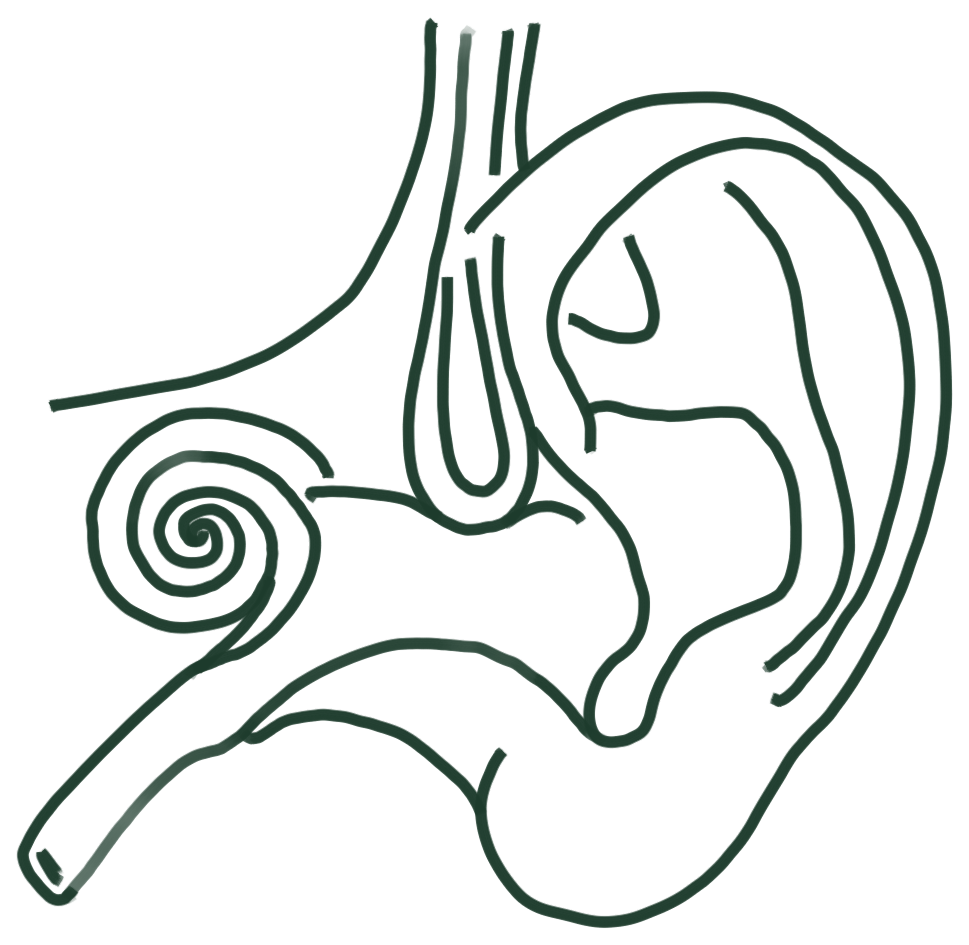
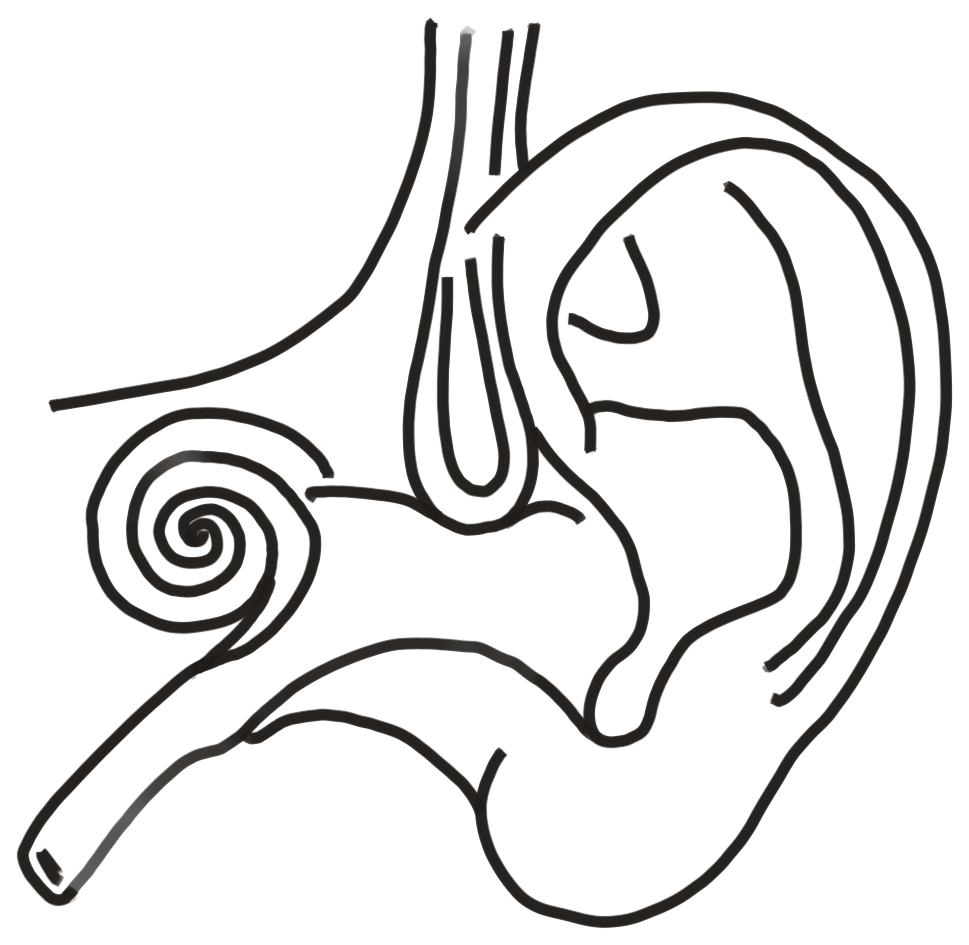
Line art back to warm black; buttons keep the soft shape but lose the outline and offset

diff --git a/app/globals.css b/app/globals.css
@@ -30,8 +30,8 @@
   --line: #d8cfbf;
   --line-soft: #e6dfd2;
 
-  /* The ink every drawing is made of: deep forest green. */
-  --ink: #1d3b2c;
+  /* The ink every drawing is made of: a warm black. */
+  --ink: #1f1c19;
   --accent: #8fb257;
   --accent-hover: #7fa348;
   --accent-ink: #1c2612;
@@ -113,32 +113,31 @@ body > * { position: relative; z-index: 1; }
 }
 
 /*
- * Buttons drawn in ink. The outline is a touch uneven, there is a hard offset
- * behind it like a sticker, hovering lifts it, pressing flattens it.
+ * Buttons: a soft, slightly uneven shape with no outline. Hovering lifts it a
+ * pixel, pressing settles it.
  */
 .btn {
   display: inline-flex;
   align-items: center;
   justify-content: center;
   gap: 8px;
-  padding: 11px 22px;
+  padding: 12px 22px;
   font-weight: 600;
-  border: 2px solid var(--ink);
+  border: 0;
   border-radius: 255px 14px 225px 14px / 14px 225px 14px 255px;
-  box-shadow: 2px 2px 0 var(--ink);
-  transition: transform 90ms ease, box-shadow 90ms ease, background-color 120ms ease, color 120ms ease, border-color 120ms ease;
+  transition: transform 90ms ease, background-color 120ms ease, color 120ms ease, border-color 120ms ease;
 }
-.btn:hover:not(:disabled) { transform: translate(-1px, -1px); box-shadow: 3px 3px 0 var(--ink); }
-.btn:active:not(:disabled) { transform: translate(2px, 2px); box-shadow: 0 0 0 var(--ink); }
-.btn:disabled { box-shadow: none; border-color: var(--line); cursor: not-allowed; }
+.btn:hover:not(:disabled) { transform: translateY(-1px); }
+.btn:active:not(:disabled) { transform: translateY(1px); }
+.btn:disabled { cursor: not-allowed; }
 .btn .arrow { transition: transform 160ms ease; }
 .btn:hover:not(:disabled) .arrow { transform: translateX(4px); }
 
 .btn-primary { background: var(--accent); color: var(--accent-ink); }
 .btn-primary:hover:not(:disabled) { background: var(--accent-hover); }
 
-.btn-secondary { background: var(--surface); color: var(--foreground); }
-.btn-secondary:hover:not(:disabled) { background: #fff; }
+.btn-secondary { background: transparent; color: var(--foreground); border: 1px solid var(--line); }
+.btn-secondary:hover:not(:disabled) { border-color: var(--foreground); }
 
 /* Small choices: plain text, an underline that draws itself when you arrive. */
 .chip {
@@ -475,8 +474,8 @@ html { scroll-behavior: smooth; }
 
 /* The turn button leans into the turn. */
 .btn-turn { transform-origin: 8% 50%; transition: transform 220ms cubic-bezier(0.2, 0.8, 0.2, 1), background-color 120ms ease; }
-.btn-turn:hover:not(:disabled) { transform: perspective(700px) rotateY(-10deg) translate(-1px, -1px); }
-.btn-turn:active:not(:disabled) { transform: perspective(700px) rotateY(-16deg) translate(2px, 2px); }
+.btn-turn:hover:not(:disabled) { transform: perspective(700px) rotateY(-10deg) translateY(-1px); }
+.btn-turn:active:not(:disabled) { transform: perspective(700px) rotateY(-16deg) translateY(1px); }
 
 /* The voice is speaking: the arcs ripple outward. */
 .speaking path { animation: speak 900ms ease-in-out infinite; }
@@ -500,9 +499,8 @@ html { scroll-behavior: smooth; }
   align-items: center;
   gap: 8px;
   padding: 10px 16px;
-  border: 2px solid var(--ink);
+  border: 0;
   border-radius: 255px 14px 225px 14px / 14px 225px 14px 255px;
-  box-shadow: 2px 2px 0 var(--ink);
   background: var(--accent);
   color: var(--accent-ink);
   font-weight: 600;
@@ -511,11 +509,11 @@ html { scroll-behavior: smooth; }
   opacity: 0;
   transform: translateY(8px);
   pointer-events: none;
-  transition: opacity 200ms ease, transform 120ms ease, box-shadow 90ms ease, background-color 120ms ease;
+  transition: opacity 200ms ease, transform 120ms ease, background-color 120ms ease;
 }
 .up-link.show { opacity: 1; transform: none; pointer-events: auto; }
-.up-link:hover { background: var(--accent-hover); transform: translate(-1px, -1px); box-shadow: 3px 3px 0 var(--ink); }
-.up-link:active { transform: translate(2px, 2px); box-shadow: 0 0 0 var(--ink); }
+.up-link:hover { background: var(--accent-hover); transform: translateY(-1px); }
+.up-link:active { transform: translateY(1px); }
 
 /* The radio ring beside a condition, drawn rather than stamped. */
 .ink-radio {
